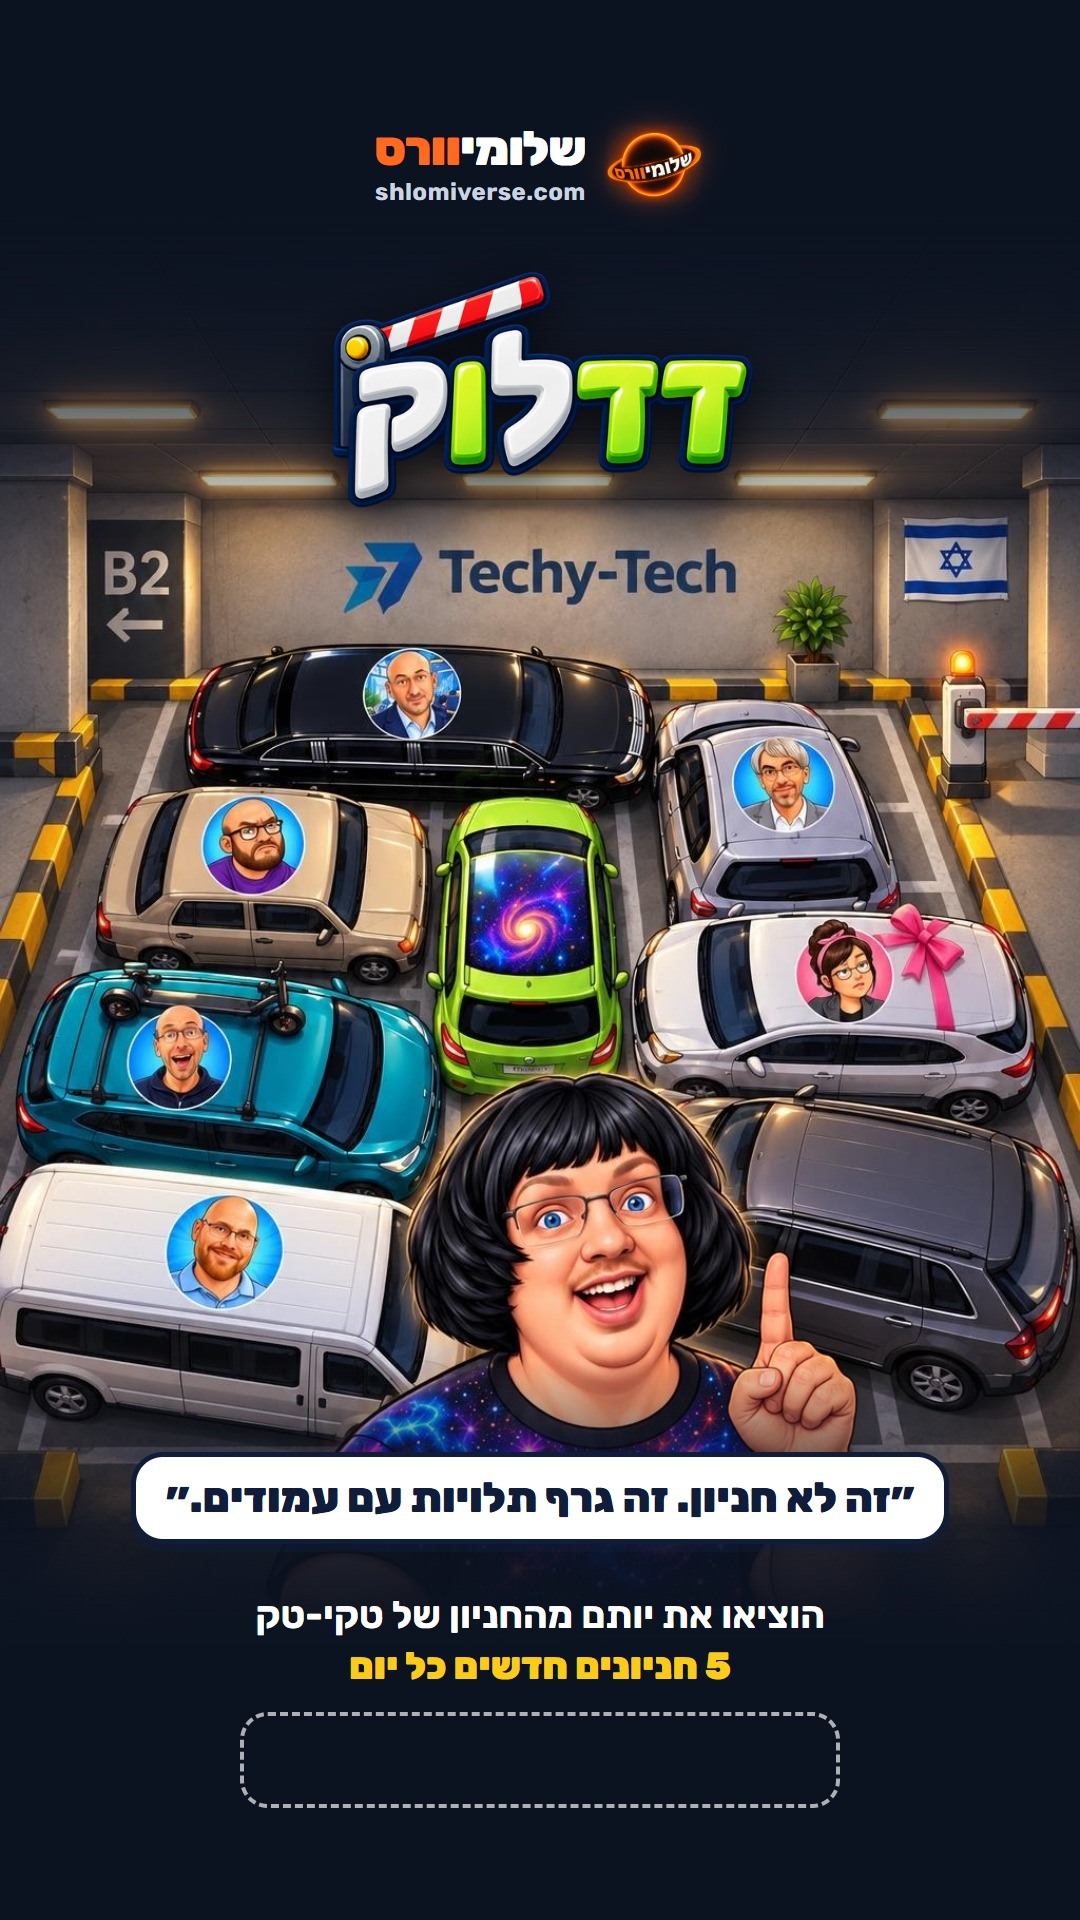
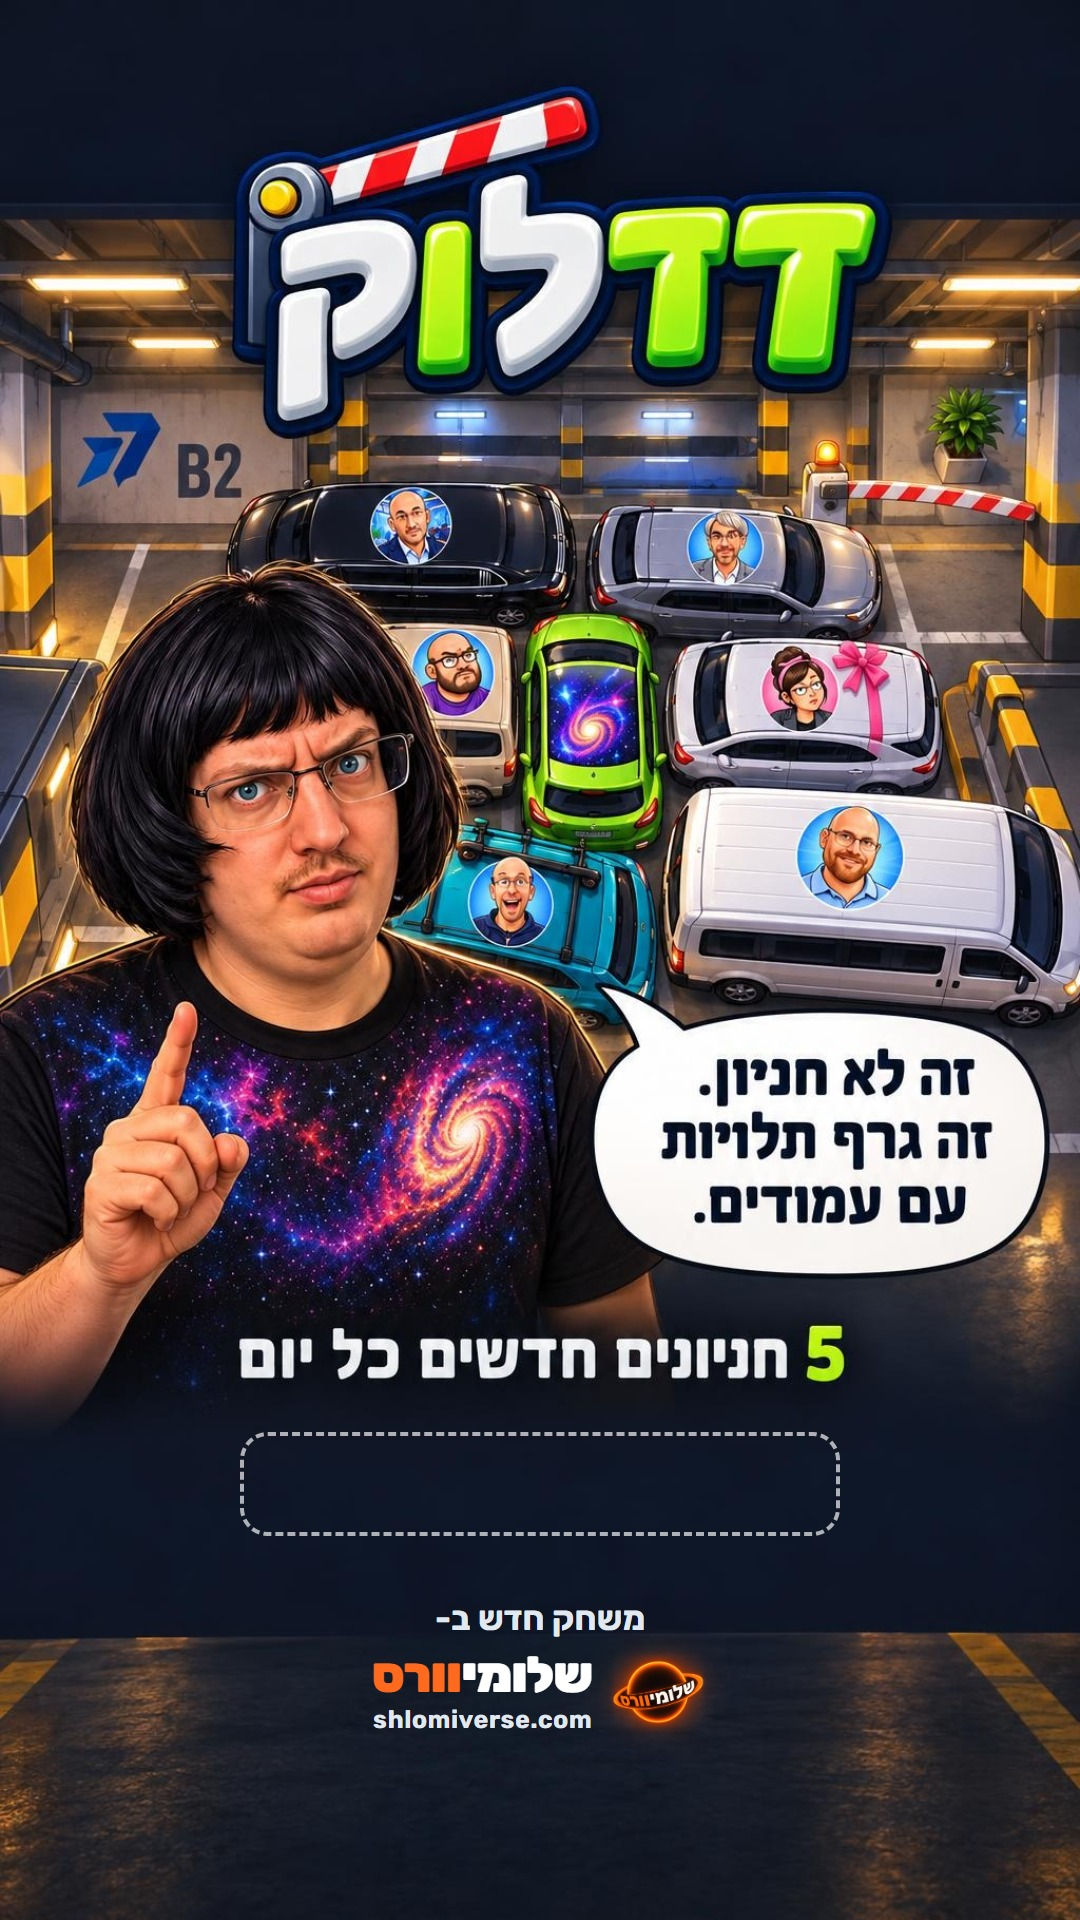
Deadlock story v4: GPT-painted poster with a grown-up Yotam, link box 25% from the bottom

diff --git a/scripts/yotam-games/deadlock/story/story.html b/scripts/yotam-games/deadlock/story/story.html
@@ -3,26 +3,19 @@
 <style>
 *{margin:0;box-sizing:border-box}
 body{width:1080px;height:1920px;overflow:hidden;font-family:Rubik,sans-serif;background:#0b1220;position:relative}
-.art{position:absolute;left:0;top:170px;width:1080px;height:1924px}
-.top{position:absolute;left:0;right:0;top:0;height:560px;background:linear-gradient(#0b1220 0,#0b1220 38%,#0b1220aa 70%,#0b122000)}
-.bot{position:absolute;left:0;right:0;bottom:0;height:560px;background:linear-gradient(#0b122000,#0b1220e6 30%,#0b1220 52%)}
-/* Shlomiverse: planet logo + the two-colour wordmark + the address, one calm row */
-.brand{position:absolute;top:120px;left:0;right:0;display:flex;align-items:center;justify-content:center;gap:16px}
-.brand img{width:104px;height:auto;filter:drop-shadow(0 0 14px #ff6a1f66)}
-.brand .t{display:flex;flex-direction:column;align-items:flex-start;line-height:1}
-.wm{font-weight:900;color:#fff;letter-spacing:-.02em;font-size:48px}.wm b{color:#ff6a1f;font-weight:900}
-.brand small{color:#cbd5e1;font-size:24px;font-weight:700;margin-top:7px;direction:ltr;letter-spacing:.5px}
-.title{position:absolute;top:258px;left:50%;transform:translateX(-50%);width:430px;filter:drop-shadow(0 10px 22px #000a)}
-.head{position:absolute;top:1452px;left:70px;right:70px;text-align:center}
-.head .q{display:inline-block;background:#fff;color:#0f1d3a;border:5px solid #0f1d3a;border-radius:32px;padding:16px 30px;font-size:42px;font-weight:900;line-height:1.2;box-shadow:0 8px 0 #0f1d3a66}
-.sub{position:absolute;top:1590px;left:60px;right:60px;text-align:center;color:#fff;font-size:38px;font-weight:700;line-height:1.35}
-.sub b{color:#facc15;font-weight:900}
-.link{position:absolute;top:1712px;left:50%;transform:translateX(-50%);width:600px;height:96px;border:4px dashed #ffffffaa;border-radius:28px}
+/* the poster (title, Yotam, his line, the short line) is painted by GPT image; only the link box + Shlomiverse are ours */
+.art{position:absolute;left:0;top:0;width:1080px;height:1924px}
+/* the link sticker's place: its centre ~25% from the bottom, where the story's viewer still sees it */
+.link{position:absolute;top:1432px;left:50%;transform:translateX(-50%);width:600px;height:104px;border:4px dashed #ffffffaa;border-radius:28px}
+.brand{position:absolute;top:1598px;left:0;right:0;display:flex;flex-direction:column;align-items:center;gap:10px}
+.kick{color:#e2e8f0;font-size:34px;font-weight:700}
+.row{display:flex;align-items:center;gap:16px}
+.row img{width:100px;height:auto;filter:drop-shadow(0 0 14px #ff6a1f66)}
+.t{display:flex;flex-direction:column;align-items:flex-start;line-height:1}
+.wm{font-weight:900;color:#fff;letter-spacing:-.02em;font-size:50px}.wm b{color:#ff6a1f;font-weight:900}
+.t small{color:#e2e8f0;font-size:25px;font-weight:700;margin-top:7px;direction:ltr;letter-spacing:.5px}
 </style></head><body>
-<img class="art" src="art2.jpg"><div class="top"></div><div class="bot"></div>
-<div class="brand"><img src="logo.png" alt=""><div class="t"><span class="wm">שלומי<b>וורס</b></span><small>shlomiverse.com</small></div></div>
-<img class="title" src="title.png">
-<div class="head"><span class="q">״זה לא חניון. זה גרף תלויות עם עמודים.״</span></div>
-<div class="sub">הוציאו את יותם מהחניון של טקי-טק<br><b>5 חניונים חדשים כל יום</b></div>
+<img class="art" src="poster-b.jpg">
 <div class="link"></div>
+<div class="brand"><div class="kick">משחק חדש ב-</div><div class="row"><img src="logo.png" alt=""><div class="t"><span class="wm">שלומי<b>וורס</b></span><small>shlomiverse.com</small></div></div></div>
 </body></html>
